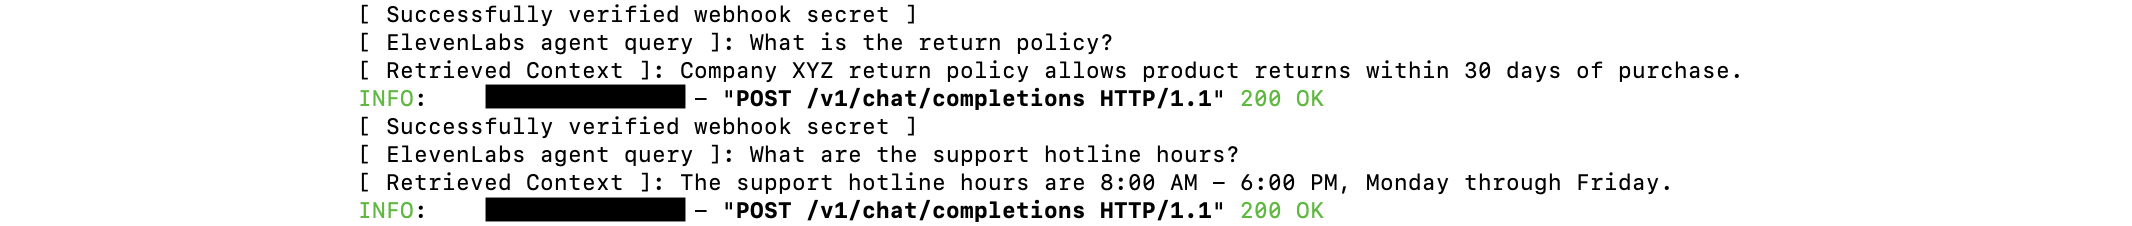
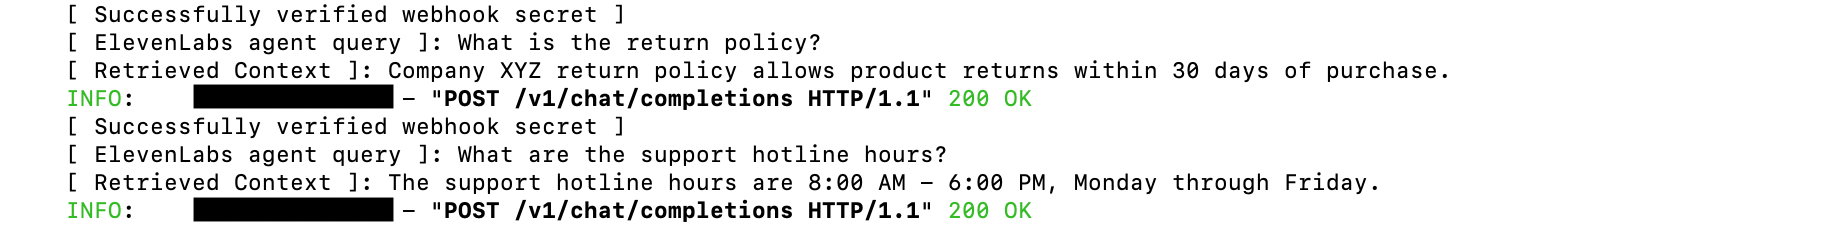
Updated README.md

diff --git a/webhook-tools/README.md b/webhook-tools/README.md
@@ -38,7 +38,9 @@ When a user asks a question requiring a specific knowledge, the ElevenLabs agent
 4. **Delivery:** The structured text answer is stream back in chunks to ElevenLabs agent to be spoken to the user
 
 
-## Sample webhook logs (Local Server Gateway)
+## Example of webhook queries sent to Local Server Gateway
+
+In the following example, the ElevenLabs agent triggers a custom webhook tool to send two queries to a local server. After successful authentication, the local server retrieves the relevant context and returns it to the agent.
 
 ![Webhook logs](https://github.com/r0bert-t/elevenlabs-integration/blob/main/webhook-tools/webhook_logs.png)
 
